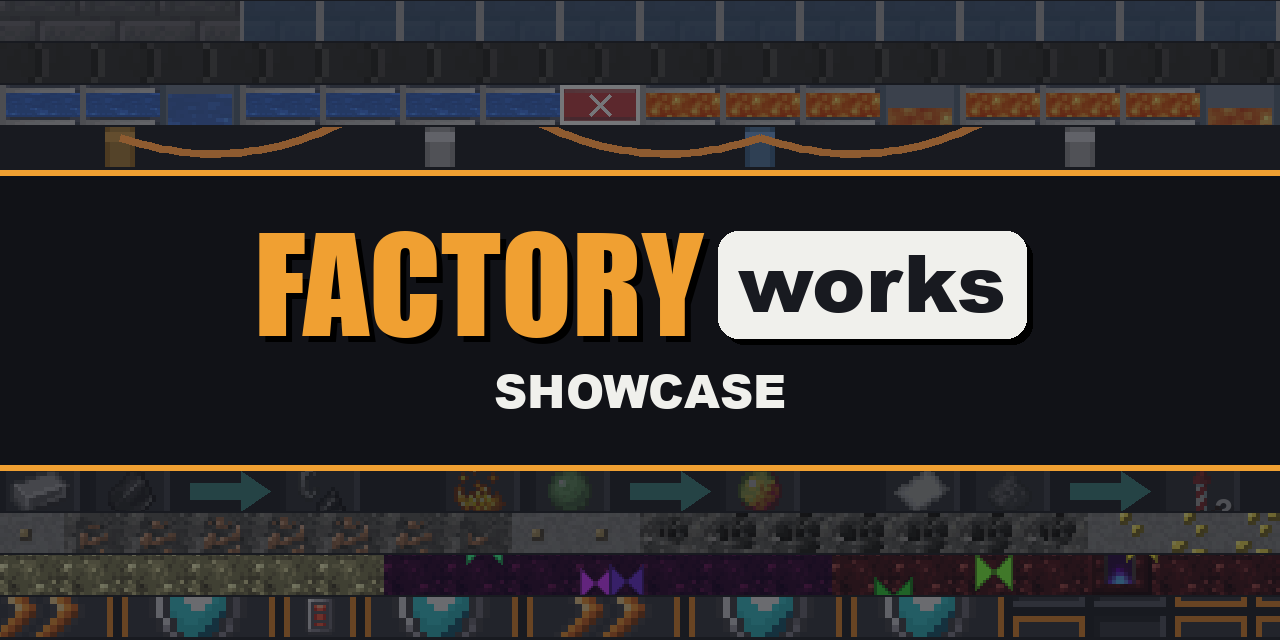
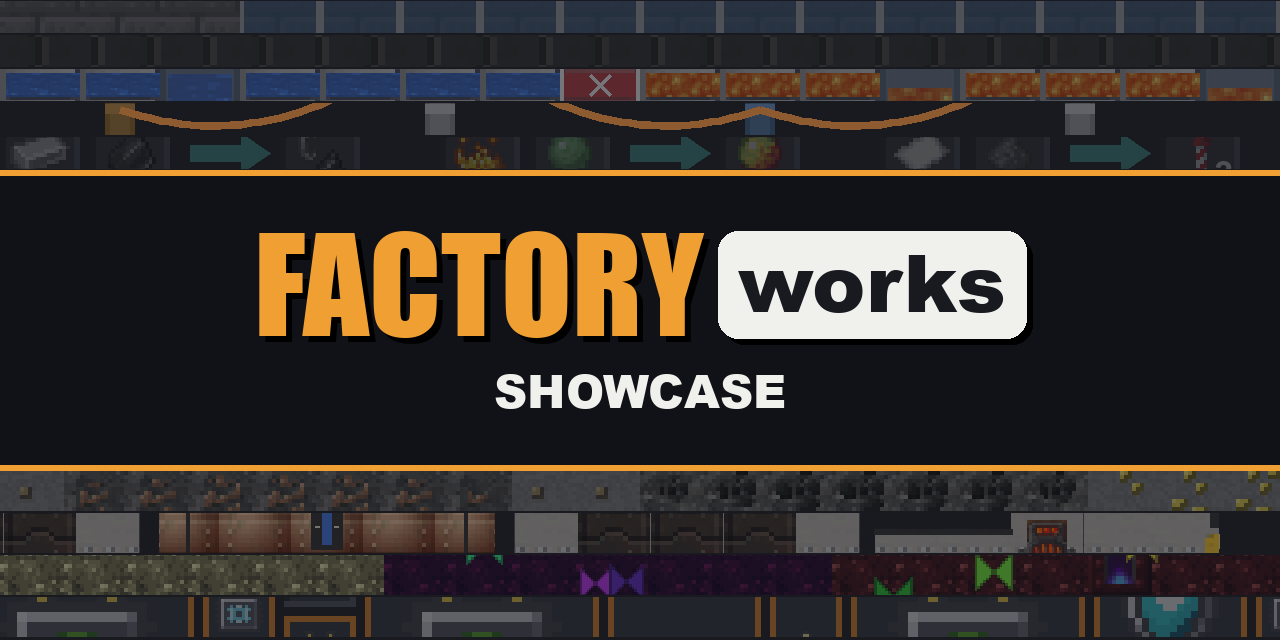
feat: move Craftworks, Fieldworks, Gearworks and Voidworks to their latest, Railworks on the store page
Craftworks 0.11.3, Fieldworks 0.7.2, Gearworks 0.2.3 and Voidworks 0.2.2, each a patch move.
Railworks joined the pack in 0.10.0 with a README line only: the store page now lists it, and
the cover and icon carry its strip.

diff --git a/publish/make-cover.py b/publish/make-cover.py
@@ -7,7 +7,7 @@
 from PIL import Image, ImageDraw, ImageFont
 # Each Module with the row of its 1280x640 cover the strip is centred on, clear of its title band
 MODULES=[('groundworks',50),('beltworks',110),('pipeworks',50),('wireworks',430),('craftworks',50),('fieldworks',100),
-         ('voidworks',555),('gearworks',55)]
+         ('railworks',410),('voidworks',555),('gearworks',55)]
 BG=(24,26,32)
 ACCENT=(240,160,50)
 FADE=110

diff --git a/CHANGELOG.md b/CHANGELOG.md
@@ -7,6 +7,11 @@ adds the mods added, updated and removed, read from the manifest (`scripts/chang
 
 ## Unreleased
 
+- Craftworks moves to 0.11.3. A new server's first start no longer logs a `NullPointerException`, and compacting drawers and upgrades (Functional Storage, Sophisticated Backpacks) fill their block and nugget slots again, since every Storage recipe also gets a plain crafting recipe.
+- Fieldworks moves to 0.7.2. `generate.all` in `fieldworks-common.toml` switches off every new patch and oil field at once, for a pack that gets its ores another way, and Jade shows an ore block's remaining amount on a dedicated server too.
+- Gearworks moves to 0.2.3. The Railgun, a held piece of Gear that fires an instant 64-block shot on FE, charged like a crossbow, and the `energyHud` client config's `offsetX` and `offsetY` push the suit's FE reading in from its corner, to clear another mod's HUD.
+- Voidworks moves to 0.2.2. The `gems` Family gains a top Rung, netherite scrap to echo shard, so a pack with no ancient cities can still smith the Resonant Void Siphon, and Jade shows the Voidstone network and the machines' lines on a dedicated server too.
+
 ## 0.10.0
 
 - Groundworks moves to 0.7.0. Breaking: Next Assembly is now Next Choice, still on `V`, so a key you rebound must be bound again. A sheet of paper now copies a box of blocks between two corners and pastes it elsewhere, turned with `R` and raised with `G` and `B`; `V` switches a blank sheet to cut, which moves a build with its chests' contents, or a held sheet to paste air, and `U` takes back a copy's last paste.

diff --git a/publish/description.md b/publish/description.md
@@ -12,6 +12,7 @@ Because creating mods is fun but seeing them integrating in a real pack is even 
 - **[Wireworks](https://www.curseforge.com/projects/1721198)**: Factorio-style electric poles that power every machine in reach
 - **[Craftworks](https://www.curseforge.com/projects/1715876)**: ask for an item, and every step is planned, paid up front and crafted over time
 - **[Fieldworks](https://www.curseforge.com/projects/1737485)**: ore patches, oil fields and the Harvester that works them
+- **[Railworks](https://www.curseforge.com/projects/1774647)**: automatic monorail trains that haul items and fluids across your factory
 - **[Voidworks](https://www.curseforge.com/projects/1742531)**: harvest void from the world, carry it downhill between dimensions, and spend it to upgrade items
 - **[Gearworks](https://www.curseforge.com/projects/1739524)**: an FE-powered suit with a grid of upgrades you level without a cap, and a lance that bores through rock
 
